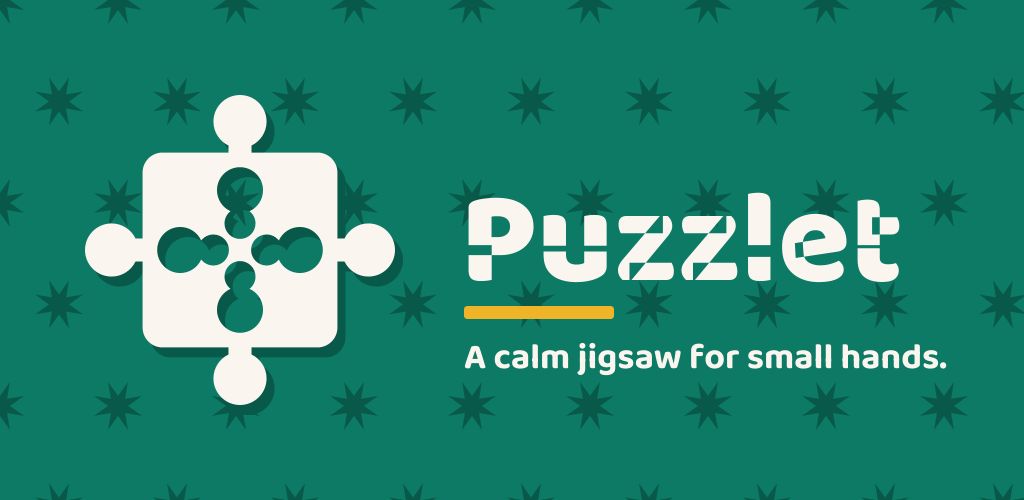
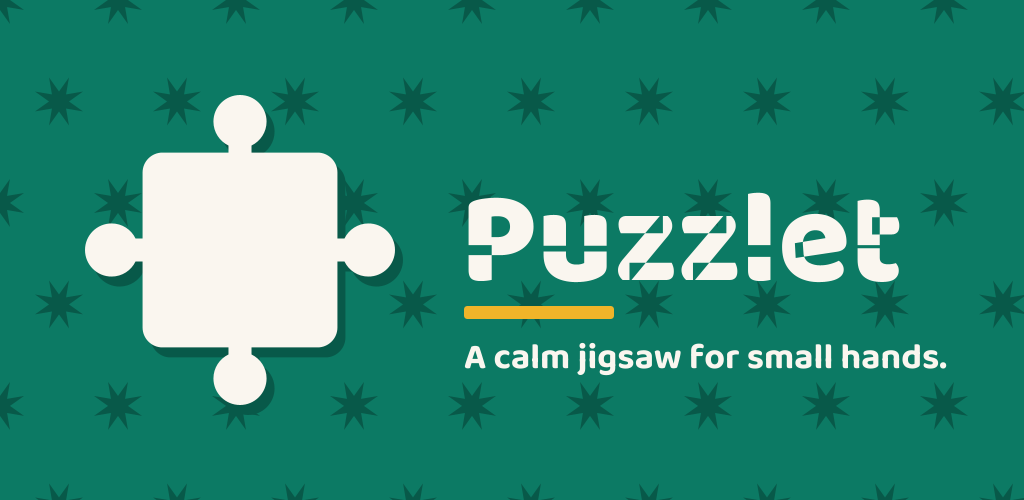
The mark, final: the plain four-armed piece, no holes
The owner's pick from the candidate sheet. The punched cuts are removed,
the four-armed piece stands alone, and the temporary candidate generator
and previews are gone. Probes now also prove no holes survive where the
cuts once were.

Changed region(s): [[0.1562, 0.33, 0.3125, 0.69]]

diff --git a/tools/src/test/kotlin/io/github/muntasimulhaque/puzzlet/tools/MakeIconsTest.kt b/tools/src/test/kotlin/io/github/muntasimulhaque/puzzlet/tools/MakeIconsTest.kt
@@ -29,10 +29,7 @@ class MakeIconsTest {
         b.deleteRecursively()
     }
 
-    /**
-     * Map piece-unit coordinates the way paintBrandPiece does: the piece
-     * occupies the centre span of the canvas, never the whole canvas.
-     */
+    /** Map piece-unit coordinates the way paintBrandPiece does. */
     private fun mapper(size: Int, spanFraction: Double): (Double, Double) -> Pair<Int, Int> {
         val scale = size * spanFraction / BRAND_SPAN
         val ox = size / 2.0 - scale / 2.0
@@ -40,24 +37,28 @@ class MakeIconsTest {
     }
 
     @Test
-    fun `legacy tile is teal with the piece on it`() {
+    fun `legacy tile is teal with the plain four-armed piece on it`() {
         val icon = legacyIcon(192)
         val p = mapper(192, IconDesign.LEGACY_SPAN_FRACTION)
         // Outside the rounded corners: fully transparent.
         assertEquals(0, icon.getRGB(8, 8) ushr 24)
-        // The piece body, clear of every cut: paper.
+        // The piece body: paper.
         val (bx, by) = p(0.5, 0.5)
         assertEquals(IconDesign.PAPER, icon.getRGB(bx, by))
-        // A knob head reaching outward: paper.
-        val (kx, ky) = p(0.5, 0.21)
-        assertEquals(IconDesign.PAPER, icon.getRGB(kx, ky))
-        // A cut head punched in the middle: the tile shows through.
-        val (cx2, cy2) = p(0.5, 0.365)
-        assertEquals(IconDesign.TEAL, icon.getRGB(cx2, cy2))
+        // The four knob heads, reaching outward: paper.
+        for ((u, v) in listOf(0.5 to 0.21, 0.79 to 0.5, 0.5 to 0.79, 0.21 to 0.5)) {
+            val (x, y) = p(u, v)
+            assertEquals("knob head at ($x, $y) is not paper", IconDesign.PAPER, icon.getRGB(x, y))
+        }
+        // Where cuts once were: plain paper again, no holes.
+        for ((u, v) in listOf(0.5 to 0.365, 0.635 to 0.5, 0.5 to 0.635, 0.365 to 0.5)) {
+            val (x, y) = p(u, v)
+            assertEquals("a hole survives at ($x, $y)", IconDesign.PAPER, icon.getRGB(x, y))
+        }
     }
 
     @Test
-    fun `four arms reach outward and four cuts sit punched, symmetric`() {
+    fun `the four arms are perfectly symmetric`() {
         val size = 432
         val image = BufferedImage(size, size, BufferedImage.TYPE_INT_ARGB)
         val g = image.createGraphics()
@@ -67,30 +68,21 @@ class MakeIconsTest {
         g.dispose()
 
         val p = mapper(size, 0.80)
-        // The four knob heads: paper, at their outward positions.
-        for ((u, v) in listOf(
-            0.5 to 0.21, 0.79 to 0.5, 0.5 to 0.79, 0.21 to 0.5,
-        )) {
+        // All four knob heads: paper.
+        for ((u, v) in listOf(0.5 to 0.21, 0.79 to 0.5, 0.5 to 0.79, 0.21 to 0.5)) {
             val (x, y) = p(u, v)
             assertEquals("knob head at ($x, $y) is not paper", IconDesign.PAPER, image.getRGB(x, y))
         }
-        // The four cut heads: tile teal through the punched blanks.
-        for ((u, v) in listOf(
-            0.5 to 0.365, 0.635 to 0.5, 0.5 to 0.635, 0.365 to 0.5,
-        )) {
+        // The four necks, halfway out: paper.
+        for ((u, v) in listOf(0.5 to 0.36, 0.64 to 0.5, 0.5 to 0.64, 0.36 to 0.5)) {
             val (x, y) = p(u, v)
-            assertEquals("cut head at ($x, $y) is not punched", IconDesign.TEAL, image.getRGB(x, y))
+            assertEquals("neck at ($x, $y) is not paper", IconDesign.PAPER, image.getRGB(x, y))
         }
-        // The cut mouths (toward the centre): also teal.
-        for ((u, v) in listOf(
-            0.5 to 0.44, 0.56 to 0.5, 0.5 to 0.56, 0.44 to 0.5,
-        )) {
+        // The diagonals between arms: tile, and the centre: paper.
+        for ((u, v) in listOf(0.30 to 0.30, 0.70 to 0.30, 0.30 to 0.70, 0.70 to 0.70)) {
             val (x, y) = p(u, v)
-            assertEquals("cut mouth at ($x, $y) is not punched", IconDesign.TEAL, image.getRGB(x, y))
+            assertEquals(IconDesign.PAPER, image.getRGB(x, y))
         }
-        // Between the cuts, the piece itself is still paper.
-        val (bx, by) = p(0.5, 0.5)
-        assertEquals(IconDesign.PAPER, image.getRGB(bx, by))
     }
 
     @Test
@@ -102,9 +94,9 @@ class MakeIconsTest {
         // The piece body: paper.
         val (bx, by) = p(0.5, 0.5)
         assertEquals(IconDesign.PAPER, layer.getRGB(bx, by))
-        // A cut head: punched, the canvas shows through.
+        // No punched holes: where cuts once were, the piece is solid.
         val (cx2, cy2) = p(0.5, 0.365)
-        assertEquals(0, layer.getRGB(cx2, cy2) ushr 24)
+        assertEquals(IconDesign.PAPER, layer.getRGB(cx2, cy2))
         // The monochrome sibling renders the same geometry in white.
         val mono = adaptiveLayer(432, IconDesign.WHITE)
         assertEquals(IconDesign.WHITE, mono.getRGB(bx, by))

diff --git a/tools/src/main/kotlin/io/github/muntasimulhaque/puzzlet/tools/MakeIcons.kt b/tools/src/main/kotlin/io/github/muntasimulhaque/puzzlet/tools/MakeIcons.kt
@@ -55,11 +55,9 @@ object IconDesign {
 
 /**
  * The friendship piece (the owner's design): ONE jigsaw piece, its four
- * arms reaching outward (top, right, bottom, left), and now also its four
- * cuts punched in the middle of the square: a real piece has a head on one
- * side and the same cut on the other, so each arm carries its matching cut
- * beneath it, mouth toward the centre, waiting for the next piece. The
- * piece spans 0.70 of the unit box, knob tip to knob tip.
+ * arms reaching outward (top, right, bottom, left): four identical arms,
+ * no holes, nothing else. The piece spans 0.70 of the unit box, knob tip
+ * to knob tip.
  */
 enum class Side { TOP, RIGHT, BOTTOM, LEFT }
 
@@ -77,17 +75,7 @@ fun brandPiece(): Area {
     body.add(Area(Ellipse2D.Double(0.44, 0.73, 0.12, 0.12)))
     body.add(Area(Rectangle2D.Double(0.18, 0.474, 0.12, 0.052)))
     body.add(Area(Ellipse2D.Double(0.15, 0.44, 0.12, 0.12)))
-    // The four cuts, one beneath each arm: a mouth (small circle) toward
-    // the centre and a head (bigger circle) deeper in, the same shape a
-    // real piece wears on its cut side. Spaced clear of the knob necks.
-    body.subtract(Area(Ellipse2D.Double(0.465, 0.405, 0.07, 0.07)))
-    body.subtract(Area(Ellipse2D.Double(0.448, 0.313, 0.104, 0.104)))
-    body.subtract(Area(Ellipse2D.Double(0.465, 0.525, 0.07, 0.07)))
-    body.subtract(Area(Ellipse2D.Double(0.448, 0.583, 0.104, 0.104)))
-    body.subtract(Area(Ellipse2D.Double(0.405, 0.465, 0.07, 0.07)))
-    body.subtract(Area(Ellipse2D.Double(0.313, 0.448, 0.104, 0.104)))
-    body.subtract(Area(Ellipse2D.Double(0.525, 0.465, 0.07, 0.07)))
-    body.subtract(Area(Ellipse2D.Double(0.583, 0.448, 0.104, 0.104)))
+
     return body
 }
 

diff --git a/AGENTS.md b/AGENTS.md
@@ -331,7 +331,14 @@ a stale build can never sit there waiting to be uploaded twice.
   piece has a head on one side and the same cut on the other, so the icon
   now shows four heads and four cuts. Probes verify all of it. Lesson
   recorded: when the owner says keep the icon and add something, the icon
-  stays; only the something is added. The geometry
+  stays; only the something is added.
+- D-036 (2026-09-05): The mark is FINAL, owner's choice from a six-take
+  candidate sheet: the plain four-armed piece, NO holes. The punched cuts
+  are removed; D-035's cut design is superseded. The temporary candidate
+  generator (IconCandidates) and its previews were removed with the choice
+  made. The lesson the owner drew, recorded for every future design round:
+  do not describe takes in prose and hope; render takes as images, put
+  them in one folder, and let the owner point at one. The geometry
   is verified by pixel probes in MakeIconsTest (heads, cuts, seams,
   bodies), after two rounds of probe bugs taught the same lesson twice:
   ALWAYS map piece-unit coordinates through the piece's span and offset
